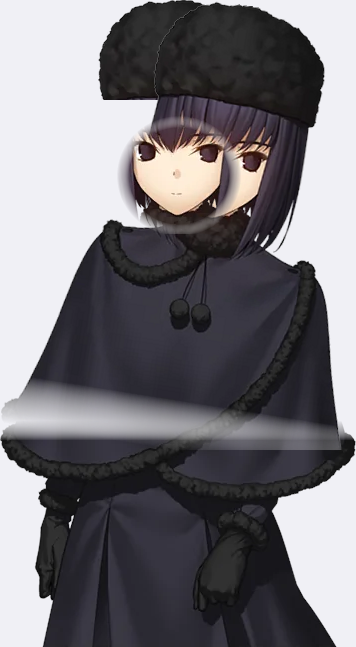
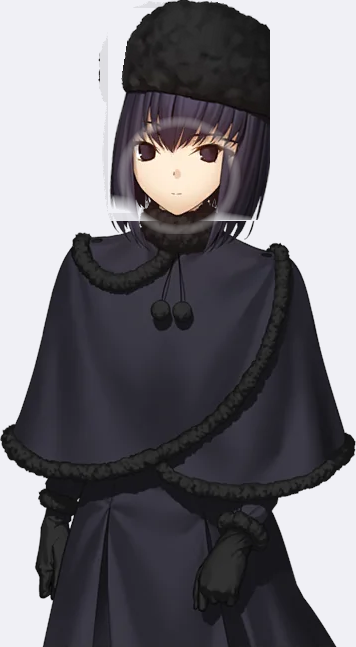
头层严格按主人标定坐标(x100-270,y0-220)裁切, 下巴为轴转头, 身体挖空对应区域

Changed region(s): [[0.0, 0.0, 0.9888, 0.711], [0.5253, 0.0, 0.5871, 0.0309], [0.4326, 0.0618, 0.4635, 0.0927]]

diff --git a/src/renderer/pet.js b/src/renderer/pet.js
@@ -27,7 +27,7 @@
     expression: { x: 82, y: 103, w: 89, h: 79 },
     tile: { w: 134, h: 118, cx: 67.5, cy: 59.5 },
     sheet: { w: 356, h: 647 }, // 半身照原图尺寸, 用于显示缩放换算
-    headOffsetY: 0, // 头层从半身照 y0 开始(完整头顶), 底部羽化融合
+    headBox: { x: 100, y: 0, w: 170, h: 220 }, // 主人标定的头部区域: x100-270, y0-220
     turn: { turnY: 9, turnX: 7, tx: 2, ty: 1.5 }, // 3D转头: rotateY左右/rotateX上下 + 位移, 身体不动
   };
 
@@ -82,11 +82,9 @@
     const s = (ui.body.clientWidth || 150) / sheet.w;
     const hbCx = hb.x + hb.w / 2;
     const hbCy = hb.y + hb.h / 2;
-    const headTop = FACE.headOffsetY;
-    ui.face.style.width = Math.round(tile.w * s) + 'px';
-    ui.face.style.height = Math.round(tile.h * s) + 'px';
-    ui.face.style.left = Math.round((hbCx - tile.cx) * s) + 'px';
-    ui.face.style.top = Math.round((hbCy - tile.cy - headTop) * s) + 'px';
+    const headBox = FACE.headBox;
+    ui.face.style.left = Math.round((hbCx - tile.cx - headBox.x) * s) + 'px';
+    ui.face.style.top = Math.round((hbCy - tile.cy - headBox.y) * s) + 'px';
     // 眼皮(眨眼)遮罩: 覆盖表情层眼睛区域, 与脸部中心对齐
     const exCy = ex.y + ex.h / 2;
     const eyeY = ex.y + ex.h * 0.44;
@@ -94,8 +92,8 @@
     const lidH = Math.round(10 * s);
     ui.lid.style.width = lidW + 'px';
     ui.lid.style.height = lidH + 'px';
-    ui.lid.style.left = Math.round((hbCx - ex.w * 0.36) * s) + 'px';
-    ui.lid.style.top = Math.round((hbCy - (exCy - eyeY) - headTop) * s - lidH / 2) + 'px';
+    ui.lid.style.left = Math.round((hbCx - ex.w * 0.36 - headBox.x) * s) + 'px';
+    ui.lid.style.top = Math.round((hbCy - (exCy - eyeY) - headBox.y) * s - lidH / 2) + 'px';
   }
 
   function pokeBounce() {

diff --git a/src/renderer/styles.css b/src/renderer/styles.css
@@ -425,10 +425,10 @@ body.eye {
 /* 羽化头层: 以脖子为轴转头, 底部羽化与身体融合 */
 .gaia-pet-head {
   position: absolute;
-  left: 0;
+  left: 28.1%; /* x100/356 */
   top: 0;
-  width: 100%;
-  transform-origin: 50% 98%;
+  width: 47.75%; /* 170/356 */
+  transform-origin: 50% 100%; /* 下巴 y220 为轴 */
   will-change: transform;
   z-index: 2;
 }

diff --git a/scripts/make-pet-head-parts.py b/scripts/make-pet-head-parts.py
@@ -1,8 +1,8 @@
 #!/usr/bin/env python3
-"""生成桌宠素材(头身分离但羽化融合):
-- body.png : 半身照去掉头部区域(挖空 y 100..435), 保留肩以下身体, 挖空边缘羽化
-- head.png : 脖子以上透明头层(完整头顶到脖子), 底部羽化
-转头: 头层 rotateY(左右看) / rotateX(上下看) + 位移, 身体不动。
+"""按主人标定的头部坐标生成桌宠素材:
+头层: (100, 0)..(270, 220), 底部羽化
+身体: 挖空该矩形区域, 挖空边缘羽化
+转轴: 下巴 y=220, 头层 transform-origin 50% 100%
 """
 
 import os
@@ -12,40 +12,50 @@ from PIL import Image
 SRC = r"D:\Codex_project\Gaia_Reading\src\renderer\images\pet\cells\半身照.png"
 OUT = r"D:\Codex_project\Gaia_Reading\src\renderer\images\pet\parts"
 
+HEAD = (100, 0, 270, 220)  # x0, y0, x1, y1
+
 im = Image.open(SRC).convert('RGBA')
 W, H = im.size
 os.makedirs(OUT, exist_ok=True)
 
-# 1) 身体: 挖空头部 y 100..435, 420..440 羽化过渡
-body = im.copy()
-a = np.array(body)
-fade0, fade1 = 420, 439
-for y in range(100, fade0):
-    a[y, :, 3] = 0
-for y in range(fade0, fade1 + 1):
-    t = (y - fade0) / (fade1 - fade0 + 1)
-    a[y, :, 3] = (a[y, :, 3] * t).astype(np.uint8)
-body = Image.fromarray(a)
-body.save(os.path.join(OUT, 'body.png'))
-
-# 2) 头层: y 0..450, 底部 400..449 羽化
-head = im.crop((0, 0, W, 450)).convert('RGBA')
+# 1) 头层: 只裁头部矩形, 底部 15px 羽化(下巴过渡)
+head = im.crop(HEAD).convert('RGBA')
 a = np.array(head)
-fade0, fade1 = 400, 449
+h = a.shape[0]
+fade0, fade1 = h - 15, h - 1
 for y in range(fade0, fade1 + 1):
     t = (y - fade0) / (fade1 - fade0 + 1)
     a[y, :, 3] = (a[y, :, 3] * (1 - t)).astype(np.uint8)
 head = Image.fromarray(a)
 head.save(os.path.join(OUT, 'head.png'))
-print('body saved', body.size)
 print('head saved', head.size)
 
-# 3) 向左看预览: body + head.rotateY(-9) 近似(2D 旋转示意) + 脸
+# 2) 身体: 挖空头部矩形, 边缘羽化(内缩8px渐变)
+body = im.copy()
+a = np.array(body)
+x0, y0, x1, y1 = HEAD
+pad = 8
+for y in range(y0, y1 + 1):
+    for x in range(x0, x1 + 1):
+        # 边缘羽化: 靠近矩形边界的像素保留部分alpha
+        d = min(x - x0, x1 - x, y - y0, y1 - y)
+        if d >= pad:
+            a[y, x, 3] = 0
+        elif d >= 0:
+            a[y, x, 3] = (a[y, x, 3] * (d + 1) / (pad + 1)).astype(np.uint8)
+body = Image.fromarray(a)
+body.save(os.path.join(OUT, 'body.png'))
+print('body saved', body.size)
+
+# 3) 向左看预览: 身体 + 头层 rotate -9 度
 canvas = Image.new('RGBA', (W, H), (240, 240, 245, 255))
 canvas.paste(body, (0, 0), body)
-rot = head.rotate(-9, resample=Image.BICUBIC, center=(178, 430), expand=False)
-canvas.paste(rot, (0, 0), rot)
+rot = head.rotate(-9, resample=Image.BICUBIC, center=(85, 220), expand=False)
+canvas.paste(rot, (x0, y0), rot)
 face = Image.open(r"D:\Codex_project\Gaia_Reading\src\renderer\images\pet\faces\日常表情.png").convert('RGBA')
-canvas.paste(face, (111, 116), face)
+# 脸在头层内: 头层起点 (100,0), 脸中心半身照(178.5,176)
+face_left = round(178.5 - 67.5 - x0)
+face_top = round(176 - 59.5 - y0)
+canvas.paste(face, (face_left + x0, face_top + y0), face)
 canvas.save(r"D:\Codex_project\Gaia_Reading\src\renderer\images\pet\head-look-sim.png")
-print('preview saved')
+print('preview saved, face at head-local', (face_left, face_top))
